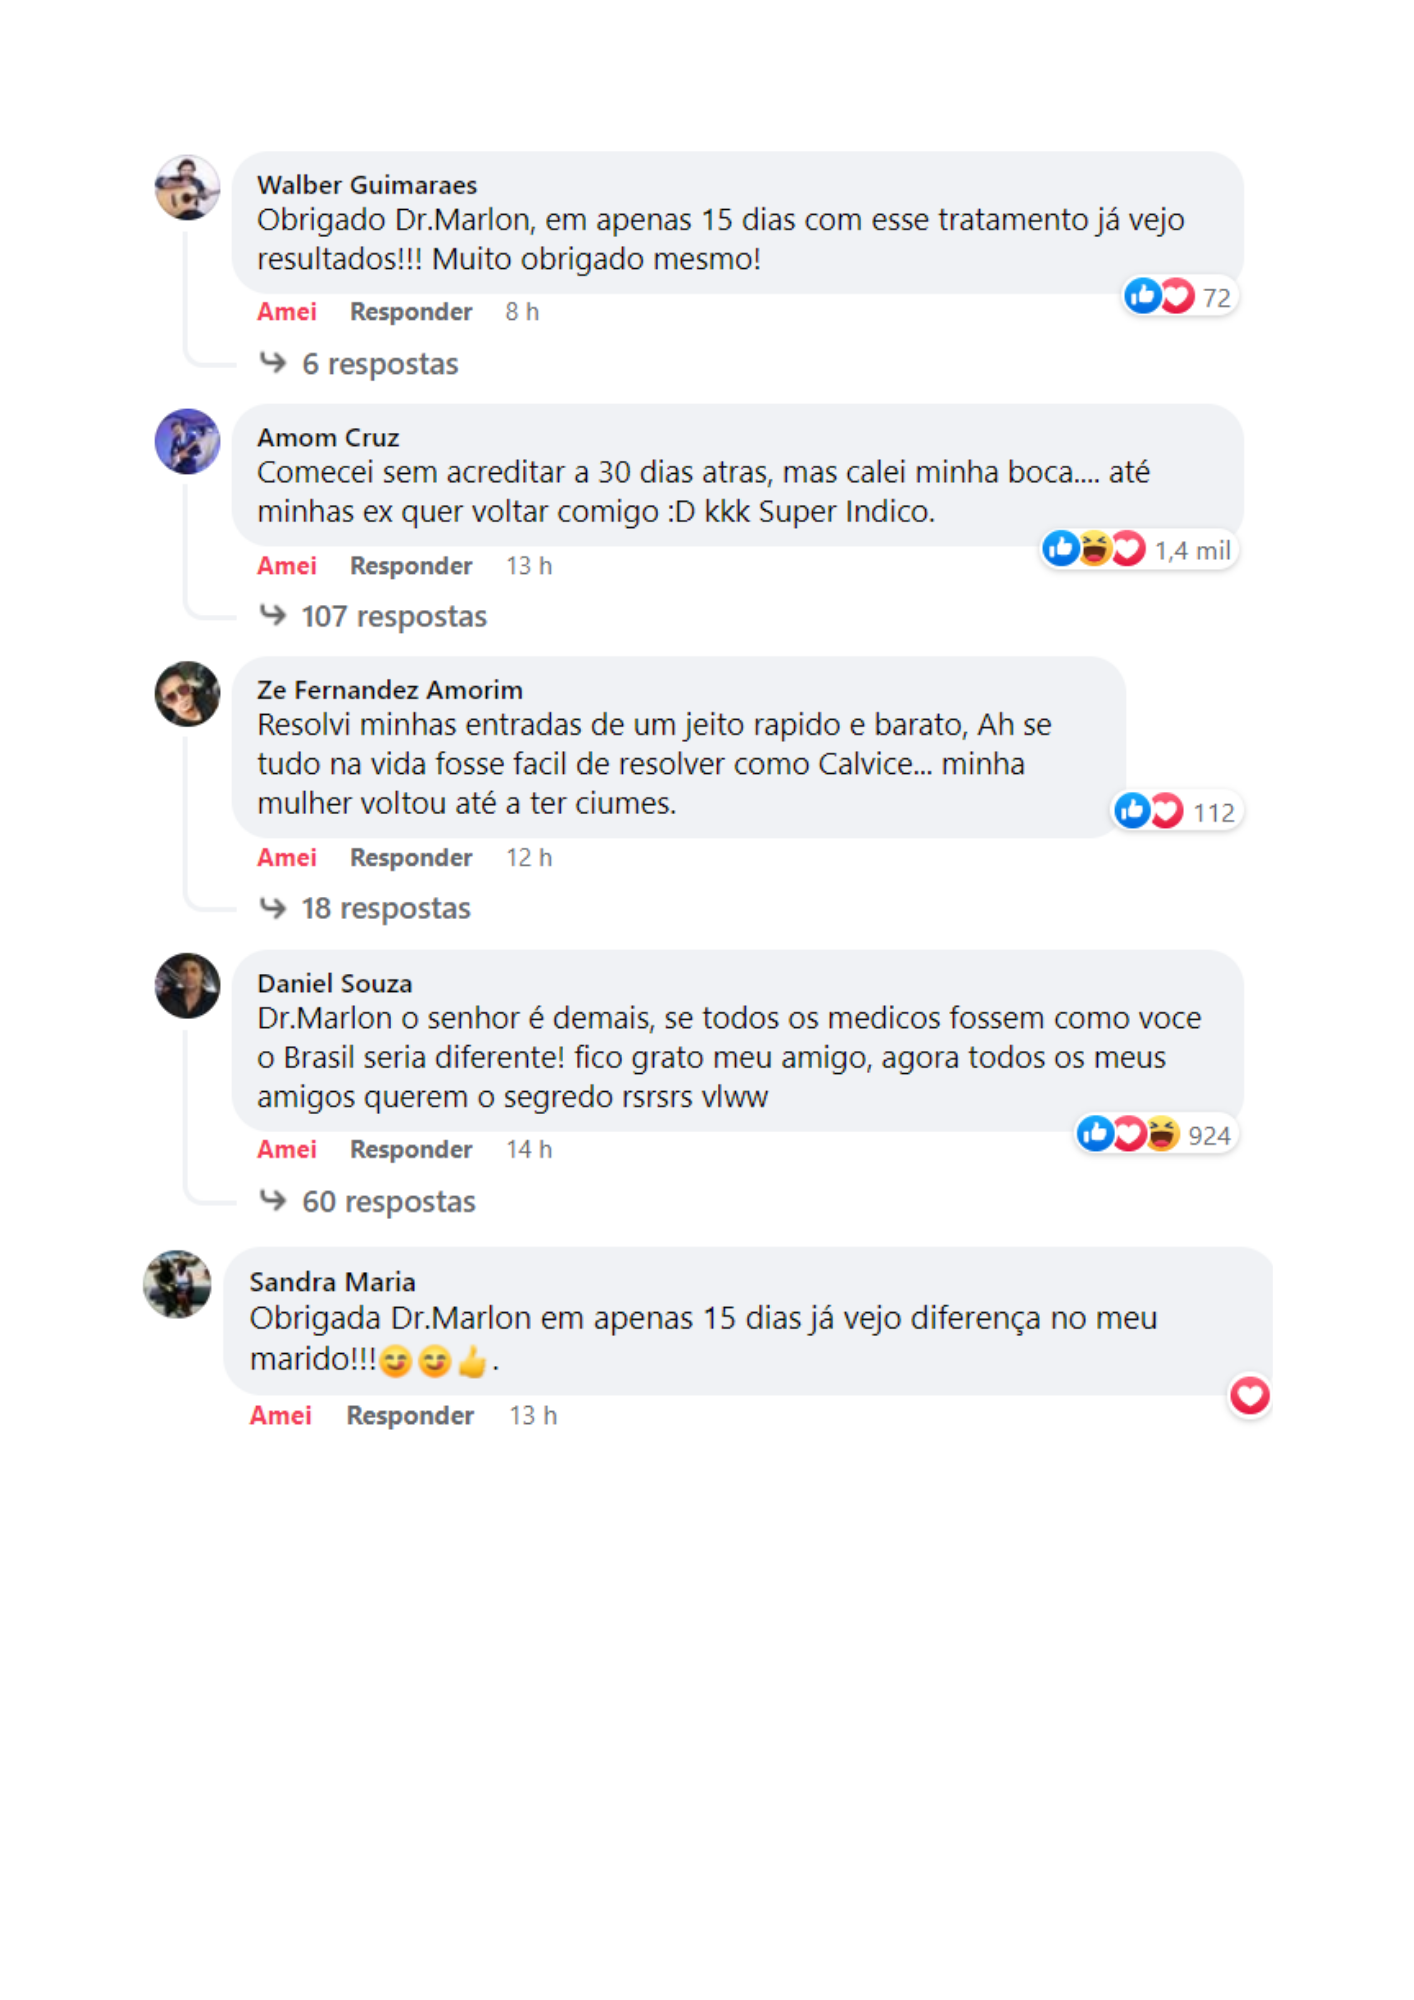
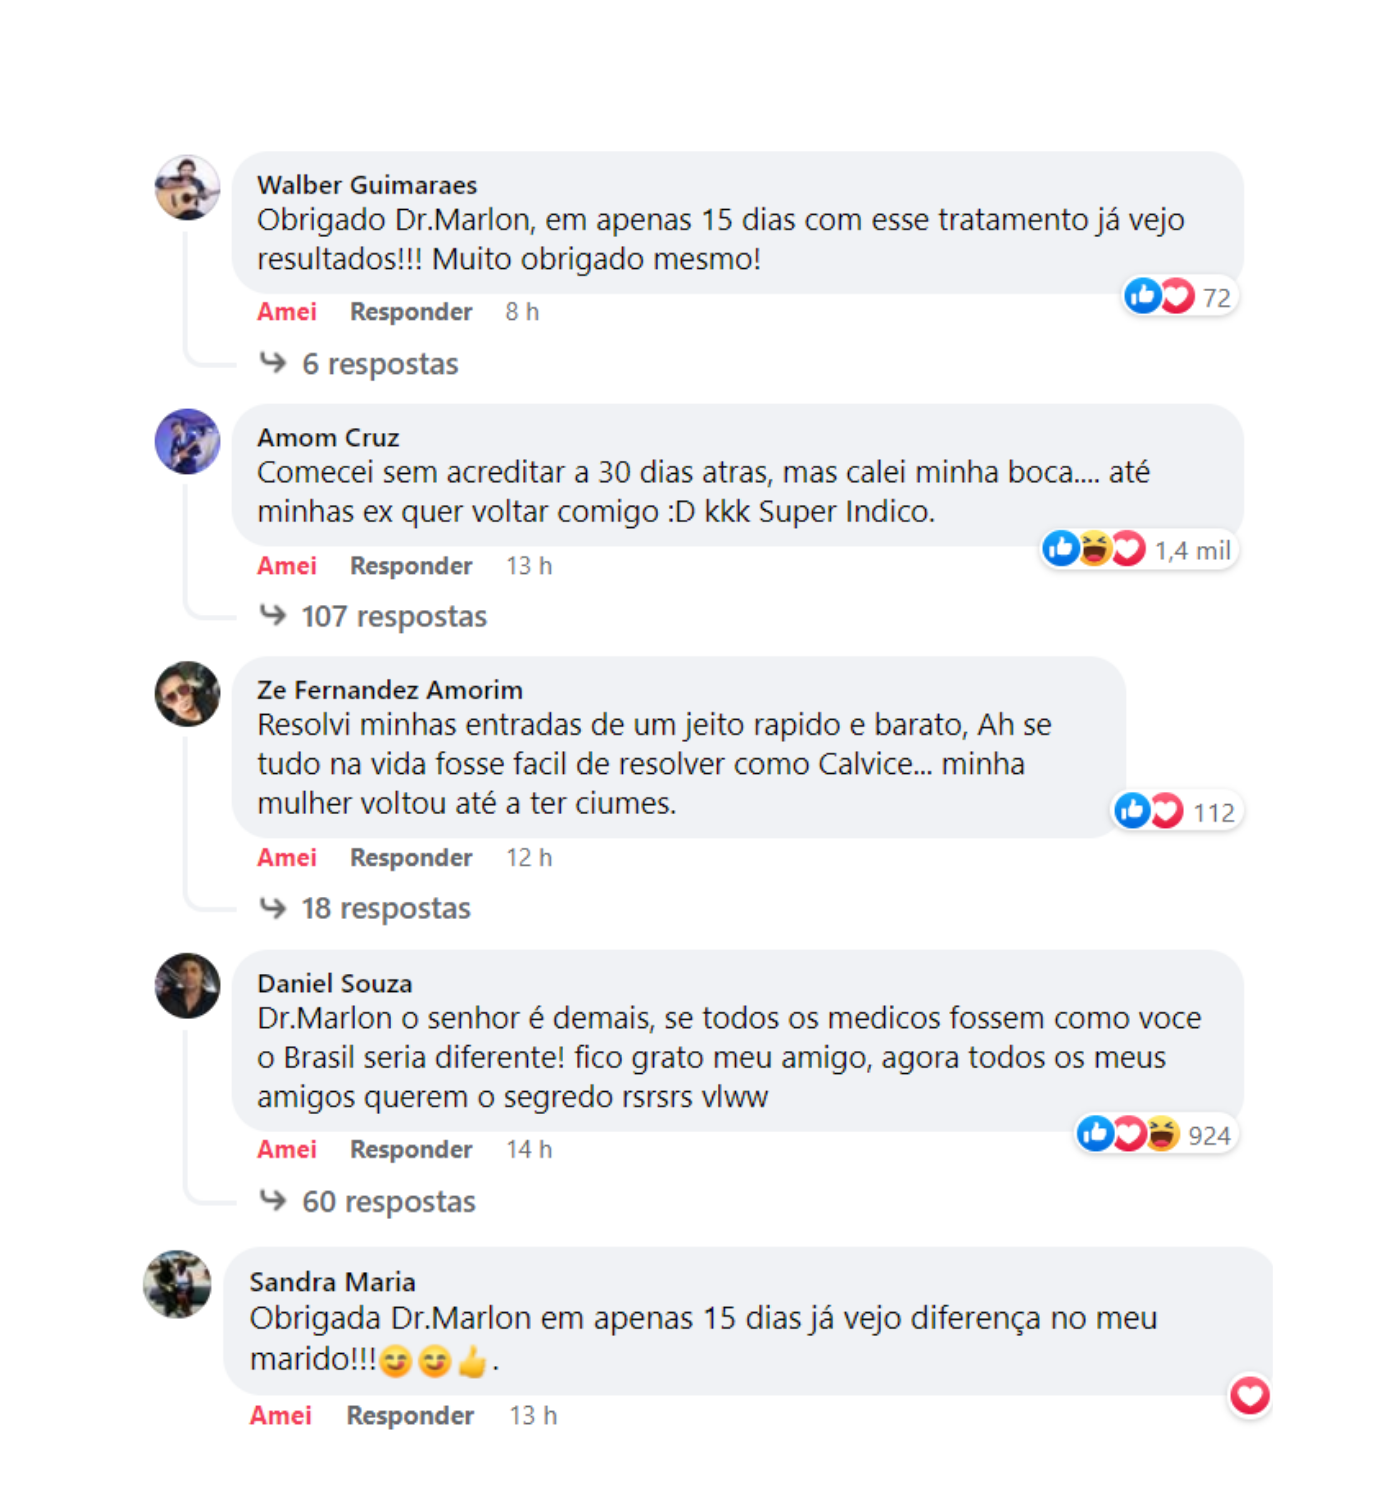
comentario tamanho

diff --git a/index.html b/index.html
@@ -204,14 +204,14 @@
       </div>
 
       <div id="step5" class="hide">
-        <video id="stepVideo" width="100%" height="auto" controls poster="imagem" source src="video.mp4" type="video/mp4"
+        <video id="stepVideo" width="100%" height="auto" poster="imagem" source src="video.mp4" type="video/mp4"
           onended="step6()">
       </div>
 
       <div id="step6" class="hide">
         <h2>Veja os Comentários, Volte a ter Confiança de um Homen com Cabelo!</h2>
 
-        <img src="comentario.png" alt="Comentários do facebook" width="80%" style="margin-bottom: 30px" />
+        <img src="comentario.png" alt="Comentários do facebook" width="100%" style="margin-bottom: 10px" />
 
         <button class="btn-red" onclick="redirect()">Quero Conhecer o Segredo!!!</button>
       </div>
